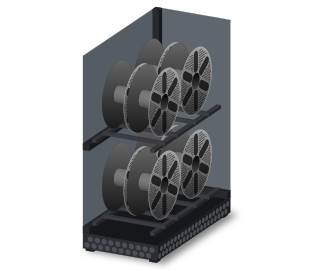
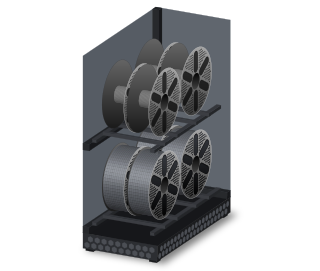
feat(unit-art): a YAMMU drawing is one drawer, lanes joined inside (#2124)
Happy Hare reports each YAMMU drawer as a unit of four gates, so the drawing fills the upper drawer with the unit's lanes and greys the other. Its lanes join inside the cabinet (drawer splitters, then a Y in the back grill). A Happy Hare unit whose display_name is YAMMU now gets the drawing.

Changed region(s): [[0.3125, 0.4723, 0.5938, 0.797], [0.5938, 0.4723, 0.625, 0.5018]]

diff --git a/scripts/unit_art/units/yammu.py b/scripts/unit_art/units/yammu.py
@@ -1,6 +1,8 @@
 # SPDX-License-Identifier: GPL-3.0-or-later
 """YAMMU: a tall 2020-extrusion cabinet with a glass door, two stacked drawers of four spools.
 
+Happy Hare reports each drawer as a unit of four gates, so one drawing shows one drawer's lanes.
+
 Each drawer holds two coaxial spools across by two deep. The cabinet stands on a skirt with
 hex grills that houses the electronics. Proportions from the project's manual (extrusions
 A 420 deep, B 500 tall, C 200 wide) and its renders.
@@ -27,6 +29,7 @@ PANEL, GLASS = "#8d939b", "#a9b2bc"
 SKIRT_C, GRILL = "#202124", "#4b4e54"
 ACCENT = "#d8432f"
 CARRIER = "#2b2d31"
+OTHER_DRAWER = "#55585e"
 TRAY_PX_PER_UNIT = 46.2 / SPOOL_R
 _REPO = Path(__file__).resolve().parents[3]
 
@@ -68,13 +71,17 @@ def _carrier(sc, z):
         _bar(sc, EX, W - EX, y + 35 * S, y + 45 * S, z, z + 10 * S, CARRIER)
 
 
-def _drawer(sc, z_floor, zc, colors, first_lane, c, detail):
+def _drawer(sc, z_floor, zc, colors, c, detail):
+    """One drawer: back row first, then front, left to right. colors None draws the other
+    Happy Hare unit's drawer in a neutral grey, outside every lane."""
     _carrier(sc, z_floor)
-    order = [(BACK_Y, 2), (FRONT_Y, 0)]
-    for y, row in order:
+    for y, row in ((BACK_Y, 2), (FRONT_Y, 0)):
         for i, xc in enumerate(CENTERS_X):
-            lane = first_lane + row + i
-            spool.draw_spool(sc, (xc, y, zc), SPOOL_R, colors[lane], c, lane, detail=detail)
+            if colors is None:
+                spool.draw_spool(sc, (xc, y, zc), SPOOL_R, OTHER_DRAWER, c, None, detail=detail)
+            else:
+                lane = row + i
+                spool.draw_spool(sc, (xc, y, zc), SPOOL_R, colors[lane], c, lane, detail=detail)
 
 
 def draw_art(sc, colors, tier):
@@ -101,9 +108,9 @@ def draw_art(sc, colors, tier):
     _bar(sc, 0, EX, 0, D, SKIRT, SKIRT + EX)
     _bar(sc, 0, EX, 0, D, SHELF, SHELF + EX)
 
-    lanes_per_drawer = len(colors) // 2
-    _drawer(sc, SKIRT + EX, LOWER_Z, colors, lanes_per_drawer, c, detail)
-    _drawer(sc, SHELF + EX, UPPER_Z, colors, 0, c, detail)
+    # Happy Hare reports each drawer as its own unit: this unit's four lanes fill the upper one.
+    _drawer(sc, SKIRT + EX, LOWER_Z, None, c, detail)
+    _drawer(sc, SHELF + EX, UPPER_Z, colors, c, detail)
 
     sc.layer = "front"
     # The near frame members: the right side's rails, both front uprights and the roof frame.
@@ -147,10 +154,14 @@ def _tray_shell():
     return TrayShellDef([(0.0, 0.0), (1.0, 0.0)], dome, 0.0, 30.0, 8.0, 6.0, True, True, 0x1c1d20, 0x202124, 0x3a3c41, 0xd8432f)
 
 
-UNIT = UnitDef("yammu", 8, draw_art, _tray_shell())
+UNIT = UnitDef("yammu", 4, draw_art, _tray_shell())
 
 UNIT.tray.front = [
     kit.span(2, 2, 2, UNIT.tray.front_wall_px - 2, 0x202124, 2),
     kit.span(4, 4, 0, 5, 0x3a3c41, 1),
     kit.center(-12, 12, 8, 13, 0xd8432f, 2),
 ]
+
+# A drawer's four paths join in its splitter, and the two drawers join in a Y in the back grill:
+# one tube leaves the cabinet.
+UNIT.tray.lane_join = "inside"

diff --git a/tests/unit/test_ams_unit_shell.cpp b/tests/unit/test_ams_unit_shell.cpp
@@ -115,6 +115,9 @@ TEST_CASE("unit shell: feeders resolve from what their backends report", "[ams][
     CHECK(id(AmsType::AFC, "Claymore ace 2") == "none");
     CHECK(id(AmsType::HAPPY_HARE, "MMX") == "mmx");
     CHECK(id(AmsType::HAPPY_HARE, "3MS") == "3ms");
+    // A YAMMU reports vendor "Other": only its opt-in display_name identifies it.
+    CHECK(id(AmsType::HAPPY_HARE, "YAMMU") == "yammu");
+    CHECK(id(AmsType::HAPPY_HARE, "Unit 1") == "none");
     // The Canvas is drawn, but no backend reports one.
     CHECK(helix::ui::tray::unit_shell_by_id("elegoo_canvas") != nullptr);
 }

diff --git a/src/ui/filament/ams_unit_shell.cpp b/src/ui/filament/ams_unit_shell.cpp
@@ -50,6 +50,8 @@ constexpr ShellRow kShellRows[] = {
     {"happy_hare", "3ms", "3ms", nullptr, 0},
     {"happy_hare", "emu", "emu", nullptr, 0},
     {"happy_hare", "kms", "kms", nullptr, 0},
+    // A YAMMU reports vendor "Other"; only a display_name of "YAMMU" names it.
+    {"happy_hare", "yammu", "yammu", nullptr, 0},
     // Happy Hare publishes the vendor as "VVD" and names the unit "BTT ViViD" by default.
     {"happy_hare", "vvd", "btt_vivid", nullptr, 0},
     {"happy_hare", "qidi", "qidi_box", nullptr, 0},
